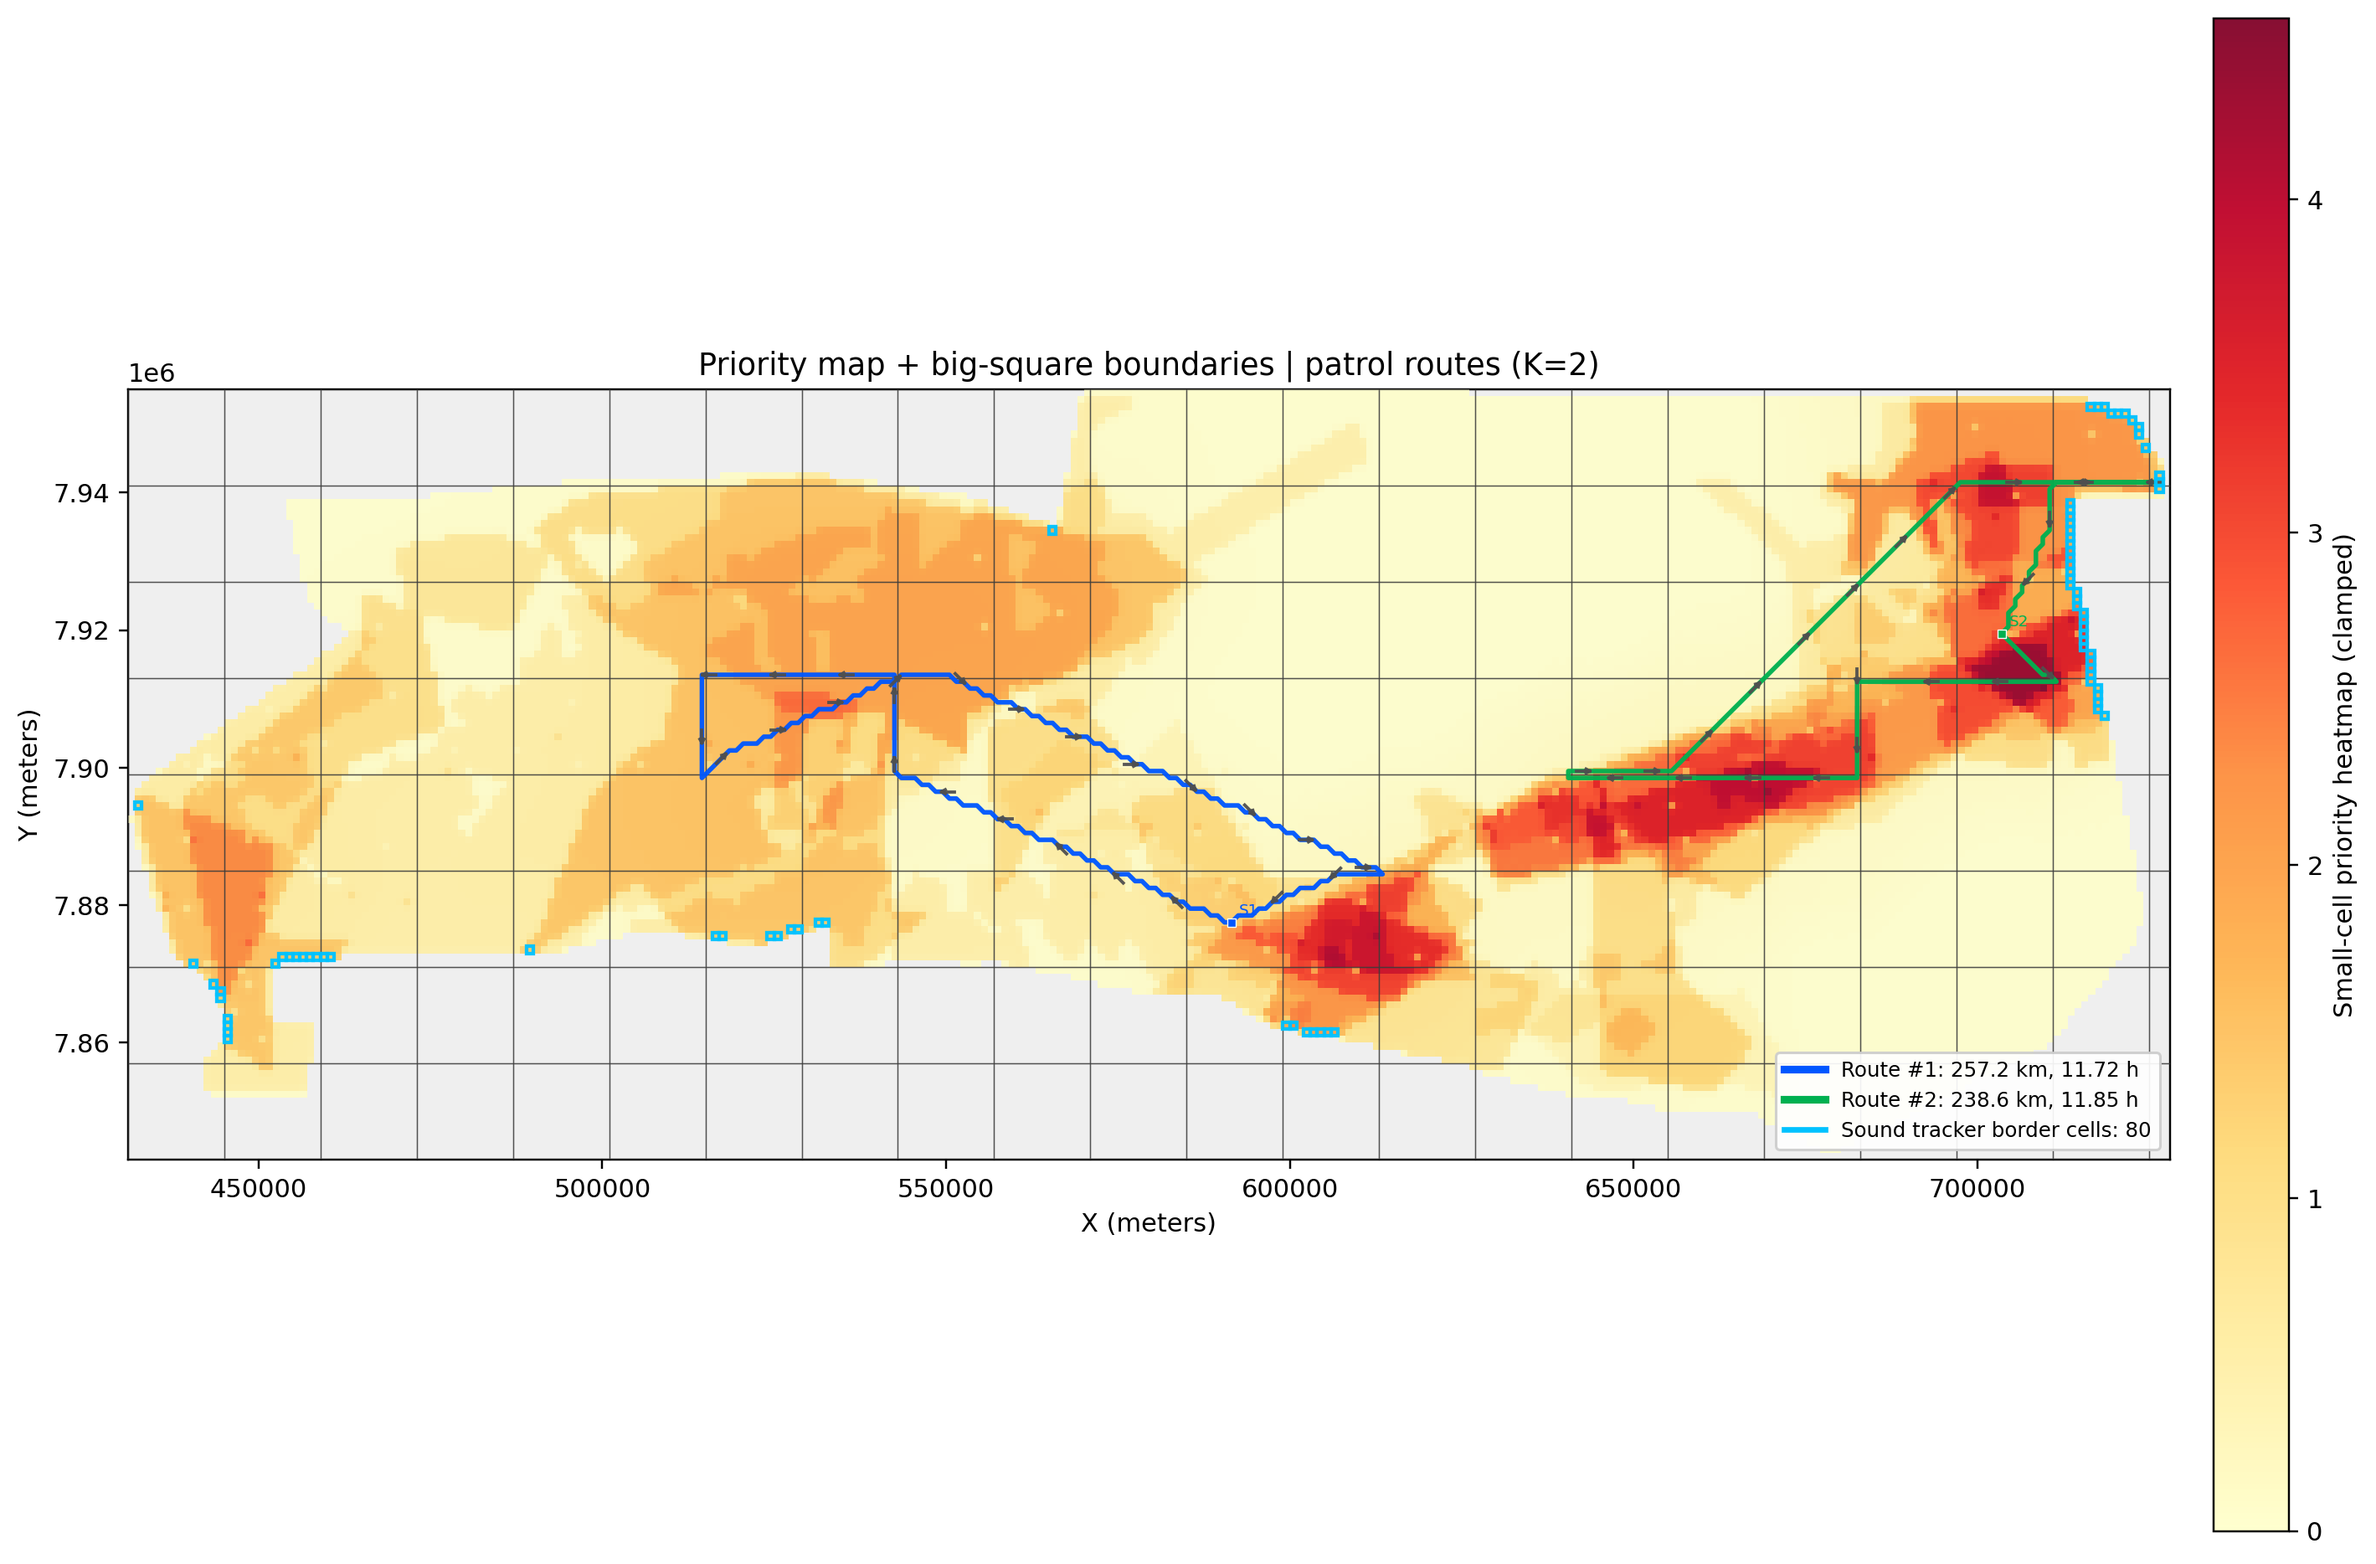
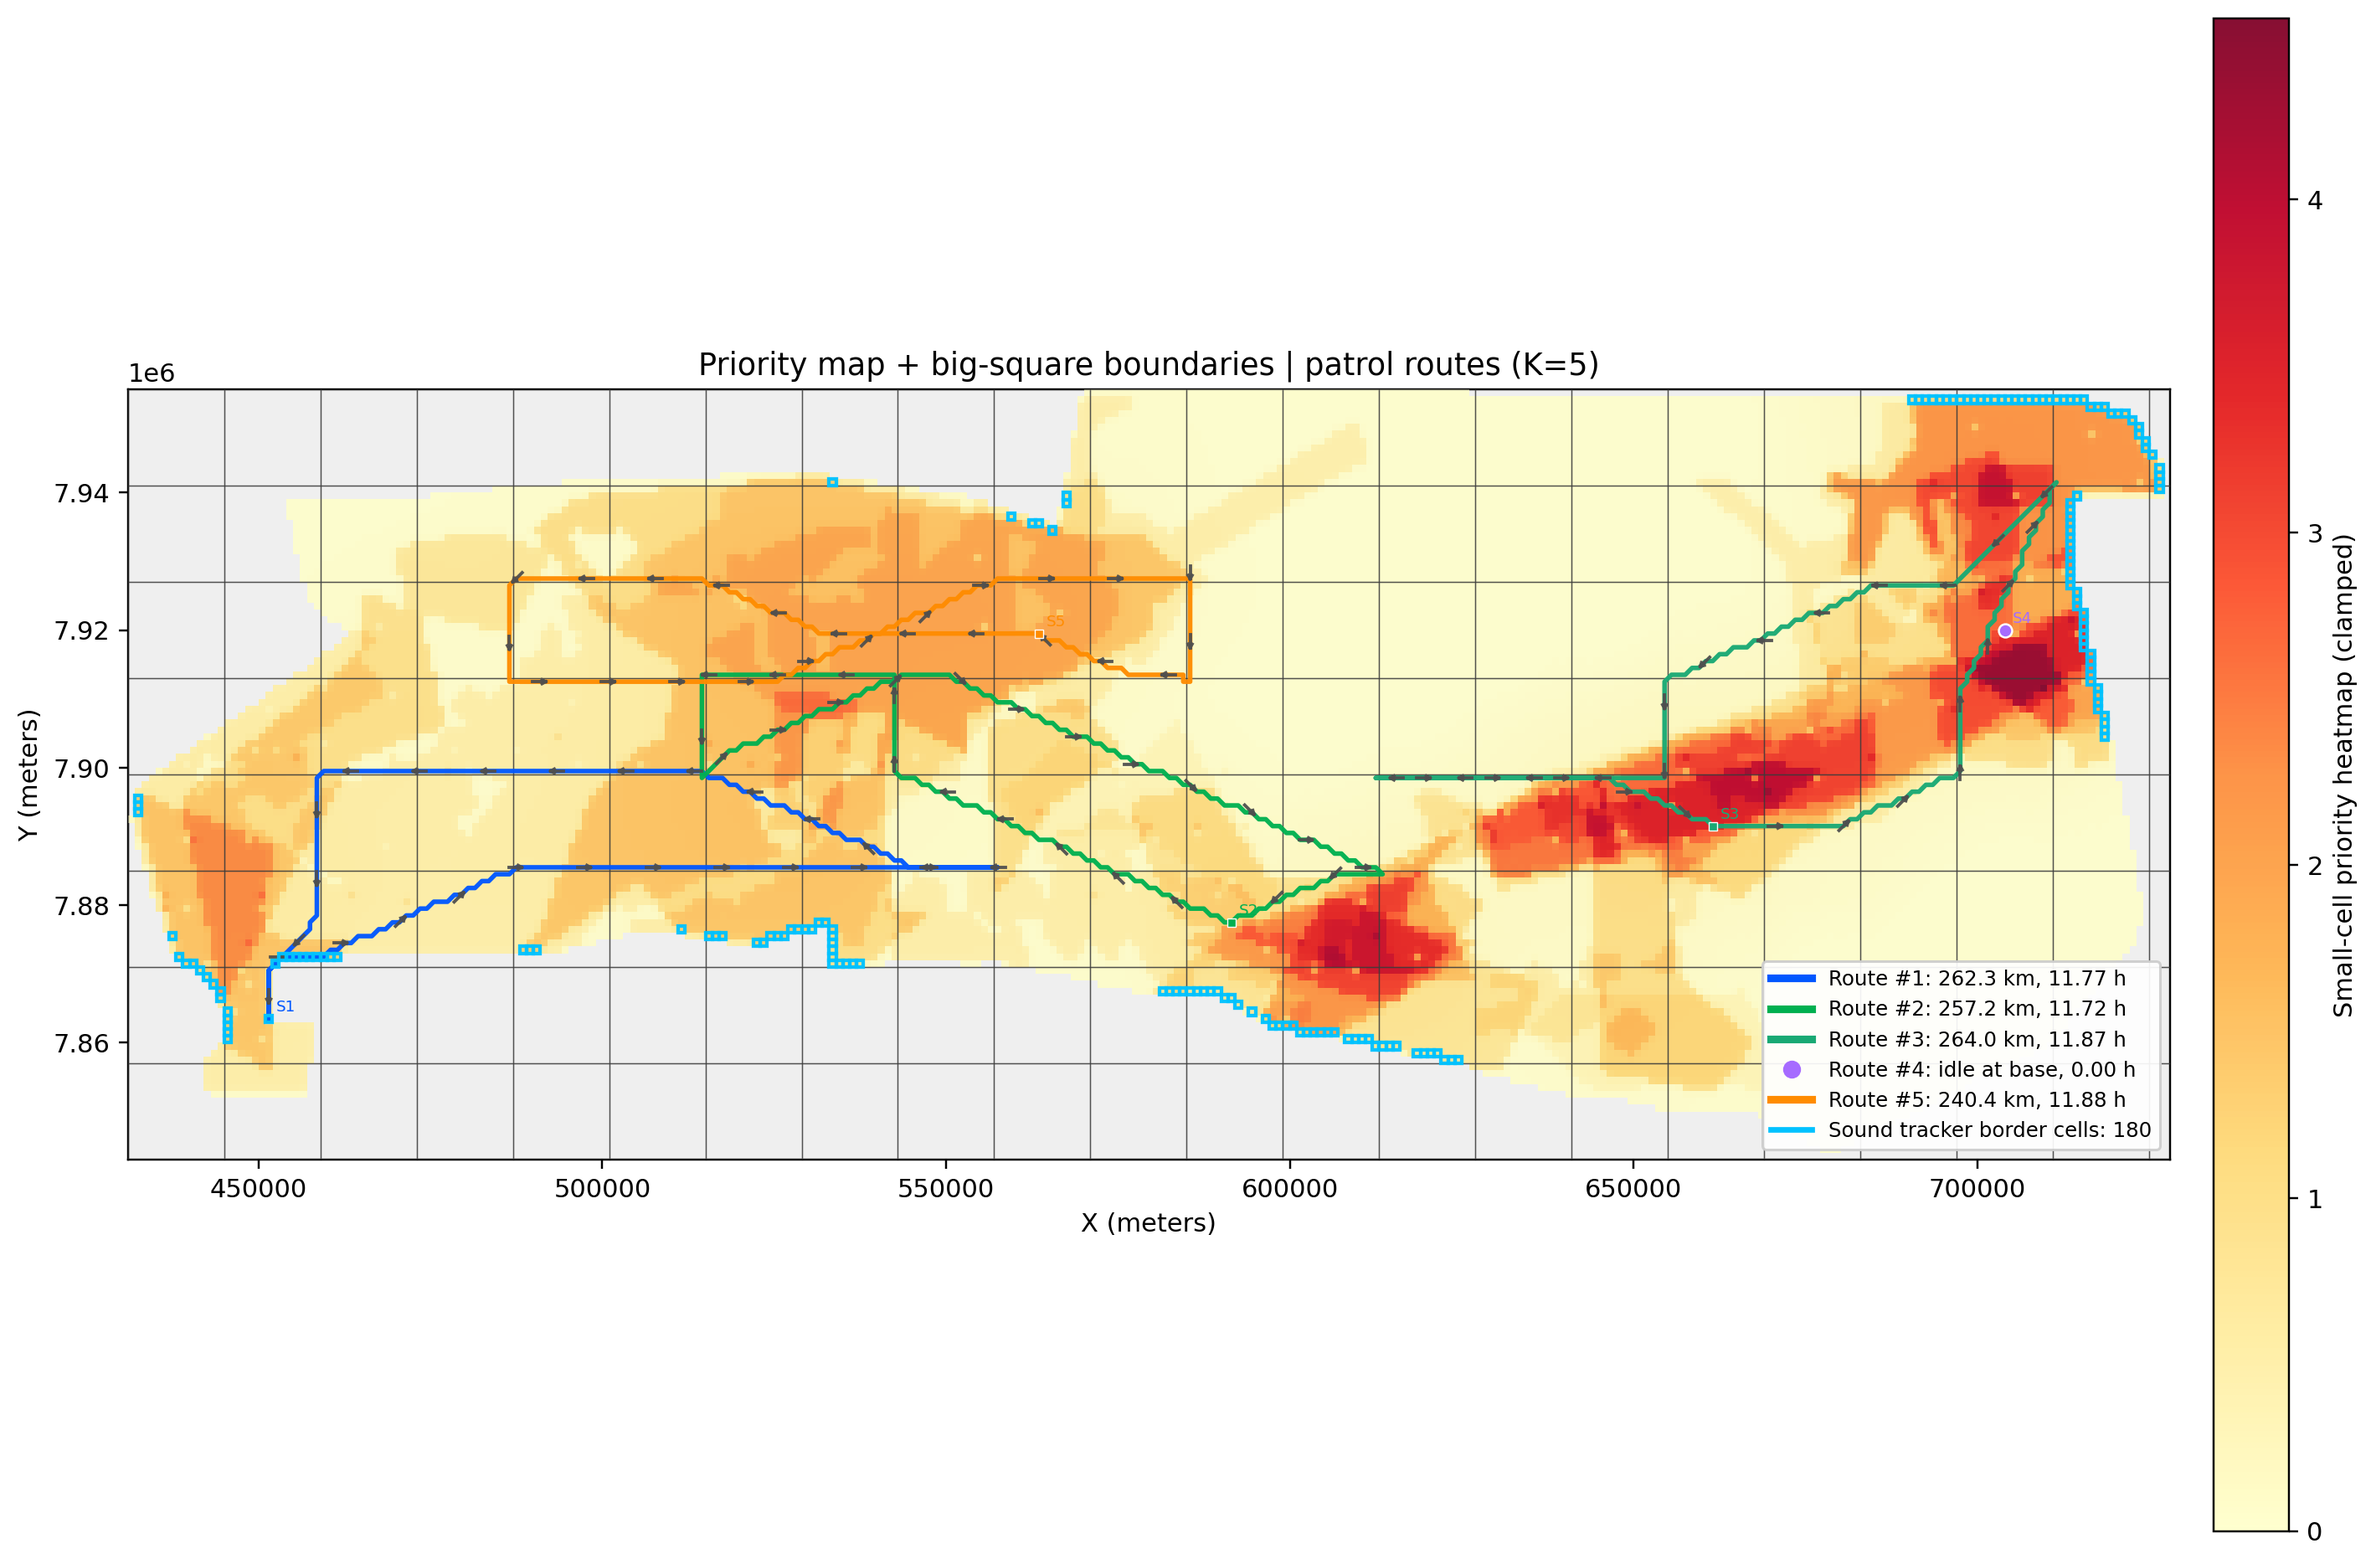
Refine simulation integration

diff --git a/math_solution/viz_patrol_alloc_k2.py b/math_solution/viz_patrol_alloc_k2.py
@@ -983,8 +983,34 @@ def _draw(
 
     for rank, p_idx in enumerate(use_routes):
         patrol = patrols[p_idx]
+        col = route_colors[rank % len(route_colors)]
+        t_h = _safe_float(patrol.get("time_h"))
+        base_big = str(patrol.get("base", ""))
         way = patrol.get("way", [])
         if not isinstance(way, list) or len(way) < 2:
+            base_center = big_cells.get(base_big, {}).get("center")
+            if isinstance(base_center, tuple) and len(base_center) == 2:
+                ax.plot(
+                    [base_center[0]],
+                    [base_center[1]],
+                    marker="o",
+                    markersize=5.2,
+                    markerfacecolor=col,
+                    markeredgecolor="white",
+                    markeredgewidth=0.8,
+                    linestyle="None",
+                    zorder=12,
+                )
+                ax.annotate(
+                    f"S{p_idx+1}",
+                    (base_center[0], base_center[1]),
+                    xytext=(3, 3),
+                    textcoords="offset points",
+                    fontsize=6,
+                    color=col,
+                    zorder=12,
+                )
+            legend_handles.append(Line2D([0], [0], color=col, marker="o", lw=0, label=f"Route #{p_idx+1}: idle at base, {t_h:.2f} h"))
             continue
         xy, route_len_m = _build_detailed_route_xy(
             way=way,
@@ -993,8 +1019,30 @@ def _draw(
             portal_router=portal_router,
         )
         if len(xy) < 2:
+            base_center = big_cells.get(base_big, {}).get("center")
+            if isinstance(base_center, tuple) and len(base_center) == 2:
+                ax.plot(
+                    [base_center[0]],
+                    [base_center[1]],
+                    marker="o",
+                    markersize=5.2,
+                    markerfacecolor=col,
+                    markeredgecolor="white",
+                    markeredgewidth=0.8,
+                    linestyle="None",
+                    zorder=12,
+                )
+                ax.annotate(
+                    f"S{p_idx+1}",
+                    (base_center[0], base_center[1]),
+                    xytext=(3, 3),
+                    textcoords="offset points",
+                    fontsize=6,
+                    color=col,
+                    zorder=12,
+                )
+            legend_handles.append(Line2D([0], [0], color=col, marker="o", lw=0, label=f"Route #{p_idx+1}: idle at base, {t_h:.2f} h"))
             continue
-        col = route_colors[rank % len(route_colors)]
         xs = [q[0] for q in xy]
         ys = [q[1] for q in xy]
 
@@ -1021,7 +1069,6 @@ def _draw(
         )
         _draw_direction_arrows(ax, xy, arrow_step_km=10.0, zorder=10)
 
-        t_h = _safe_float(patrol.get("time_h"))
         label = f"Route #{p_idx+1}: {route_len_m/1000.0:.1f} km, {t_h:.2f} h"
         legend_handles.append(Line2D([0], [0], color=col, lw=3, label=label))
 

diff --git a/math_solution/risk_year_simulation.py b/math_solution/risk_year_simulation.py
@@ -43,6 +43,7 @@ RANGER_STOP_RADIUS_M = 1000.0
 
 # Daily patrol randomization assumptions
 PATROL_ACTIVE_HOURS_PER_DAY = 12
+PATROL_LOOPS_PER_DAY = 2
 DAILY_KEYPOINT_LIMIT = 8
 
 # Target weights from user request
@@ -503,14 +504,15 @@ def _build_hourly_patrol_positions(
 
             for hh in range(24):
                 global_h = day_start + hh
-                if hh >= PATROL_ACTIVE_HOURS_PER_DAY or total_h <= 1e-9:
+                if total_h <= 1e-9:
                     one_big[global_h] = base_big
                     one_node[global_h] = ctx.rep_node_by_big[base_big]
                     continue
 
-                t_h = float(hh)
-                if total_h > 0.0:
-                    t_h = t_h % total_h
+                # Business rule: patrol completes one route in each 12-hour shift
+                # (two full route loops per day).
+                shift_h = float(hh % PATROL_ACTIVE_HOURS_PER_DAY)
+                t_h = (shift_h / float(PATROL_ACTIVE_HOURS_PER_DAY)) * total_h
 
                 acc = 0.0
                 chosen_big = base_big
@@ -942,6 +944,9 @@ def simulate_period(
             "ranger_speed_kmh": RANGER_SPEED_KMH,
             "intruder_speed_kmh": INTRUDER_SPEED_KMH,
             "sla_h": T_SLA_H,
+            "patrol_shift_hours": PATROL_ACTIVE_HOURS_PER_DAY,
+            "patrol_loops_per_day": PATROL_LOOPS_PER_DAY,
+            "patrol_loop_policy": "one full route per 12-hour shift (2 loops per day)",
         },
     }
 

diff --git a/math_solution/math_model.py b/math_solution/math_model.py
@@ -31,11 +31,11 @@ SCRIPT_DIR = os.path.dirname(os.path.abspath(__file__))
 PROJECT_DIR = os.path.dirname(SCRIPT_DIR)
 
 # Defaults and model constants
-DEFAULT_PATROL_COST = 50000.0
+DEFAULT_PATROL_COST = 65000.0
 DEFAULT_MIN_RANGERS_REQUIRED = 2
-DEFAULT_GPS_FULL_COST = 60000.0
+DEFAULT_GPS_FULL_COST = 90000.0
 DEFAULT_SOUND_TRACKER_COST_PER_KM = 750.0
-DEFAULT_TOTAL_BORDER_KM = 820.0
+DEFAULT_TOTAL_BORDER_KM = 500.0
 
 DEFAULT_DIST_PATH = "solution/big_dist_with_portals_time_priority.json"
 DEFAULT_PATROL_PATH = "solution/patrol_house_to_big_cell.json"
